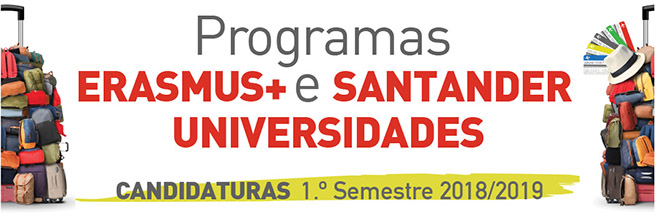
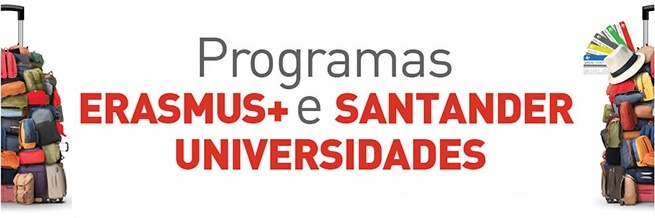
Programs

diff --git a/CIMOB_IPS/wwwroot/css/program.css b/CIMOB_IPS/wwwroot/css/program.css
@@ -1,22 +1,21 @@
 
 .programs-display {
     text-align: center;
-    margin-top: 3%;
-    margin-left: 21%;
+    margin-left: 15%;
     width: 100%;
     font-size: 1.1vmax;
 }
 
 .TitleDiv {
-    margin-left: 26%;
-    margin-top: 4%;
+    margin-left: 30%;
+    margin-top: 3%;
     margin-bottom: 7%;
 
 }
 
 .TitleDiv img {
-    width: 48vw;
-    height: 15vw;
+    width: 40vw;
+    height: 13vw;
     user-select: none;
 }
 
@@ -24,9 +23,9 @@
     background-color: white;
 }
 
-.programs-display button {
+.programs-display button  {
     height: 7%;
-    width: 40%;
+    width: 100%;
     margin-top: 2%;
     float: right;
     border: none;
@@ -39,12 +38,13 @@
 }
 
 .programs-display table img {
-    width: 40vw;
-    height: 10vw;
+    width: 25vw;
+    height: 8vw;
     user-select: none;
 }
 
 .programs-display button:hover {
     background-color: var(--blue-var4);
     cursor: pointer;
+    border: 0.7px solid var(--blue-var4);
 }

diff --git a/CIMOB_IPS/wwwroot/css/application.css b/CIMOB_IPS/wwwroot/css/application.css
@@ -88,10 +88,11 @@ textarea {
     display:inline-block;
 }
 
-.application-form-pager input[type=submit]:hover:enabled {
-    background-color: var(--blue-var4);
-    cursor: pointer;
-}
+    .application-form-pager input[type=submit]:hover:enabled {
+        background-color: var(--blue-var4);
+        cursor: pointer;
+        border: 0.7px solid var(--blue-var4);
+    }
 
 input[type=submit]:disabled {
     background-color: #AAAAAA;
@@ -118,6 +119,7 @@ legend {
 .disabled-input {
     background-color: #ddd;
     pointer-events: none;
+    color:black;
 }
 
 .application-form-pager a, .application-form-pager a:visited, .application-form-pager a:link, .application-form-pager a:active {
@@ -137,4 +139,5 @@ legend {
 .application-form-pager a:hover {
     background-color: var(--blue-var4);
     cursor: pointer;
+    border: 0.7px solid var(--blue-var4);
 }

diff --git a/CIMOB_IPS/Controllers/ApplicationController.cs b/CIMOB_IPS/Controllers/ApplicationController.cs
@@ -47,6 +47,7 @@ namespace CIMOB_IPS.Controllers
                 viewModel.Student.Telephone = student.Telephone;
                 viewModel.Account.Email = GetEmail(userID);
                 viewModel.Student.IdNationality = student.IdNationality;
+                viewModel.Student.Address = student.Address;
             }
             else
                 viewModel = model;
@@ -66,7 +67,7 @@ namespace CIMOB_IPS.Controllers
             return _context.Account.Where(s => s.IdAccount == intId).FirstOrDefault().Email;
         }
 
-        [HttpPost]
+        
         public IActionResult NewApplicationMob(ApplicationViewModel model)
         {
             if (!User.Identity.IsAuthenticated)
@@ -74,6 +75,9 @@ namespace CIMOB_IPS.Controllers
 
             if (User.IsInRole("tecnico") || User.IsInRole("tecnico_admin"))
                 return RedirectToAction("Index", "Home");
+
+            if (model.Student == null)
+                return RedirectToAction("New", "Application");
 
             ViewData["app_form"] = "NewApplication_Mob";
             ViewData["submit_form"] = "NewApplicationMotiv";
@@ -93,6 +97,9 @@ namespace CIMOB_IPS.Controllers
 
             if (User.IsInRole("tecnico") || User.IsInRole("tecnico_admin"))
                 return RedirectToAction("Index", "Home");
+
+            if (model.Student == null)
+                return RedirectToAction("New", "Application");
 
             ViewData["app_form"] = "NewApplication_Motiv";
             ViewData["submit_form"] = "RegisterApplication";

diff --git a/CIMOB_IPS/Controllers/NotificationController.cs b/CIMOB_IPS/Controllers/NotificationController.cs
@@ -54,7 +54,32 @@ namespace CIMOB_IPS.Controllers
                 scmCommand.ExecuteNonQuery();
             }
 
-            return PartialView("~/views/Shared/Notification.cshtml", NotificationsCount(User).ToString());
+            return PartialView("~/Views/Shared/_Notifications.cshtml", NotificationsCount(User).ToString());
+        }
+
+        public List<Notification> GetNotifications(ClaimsPrincipal user)
+        {
+            List<Notification> list = new List<Notification>();
+            using (SqlConnection scnConnection = new SqlConnection(CIMOB_IPS_DBContext.ConnectionString))
+            {
+                scnConnection.Open();
+                string strQuery = "Select * FROM Notification where id_account = @AccountId";
+
+                SqlCommand scmCommand = new SqlCommand(strQuery, scnConnection);
+                scmCommand.Parameters.AddWithValue("@AccountId", GetCurrentUserID(user));
+
+                Notification aux = null;
+
+                SqlDataReader reader = scmCommand.ExecuteReader();
+
+                while (reader.Read())
+                {
+                    aux = new Notification {IdNotification = (long)reader[0], IdAccount = (long)reader[1], Description = (string)reader[2], ReadNotification = (bool)reader[3], ControllerName = (string)reader[4], ActionName = (string)reader[5] }; // FALTA A DATA
+                    list.Add(aux);
+                }
+            }
+
+            return list;
         }
 
 
